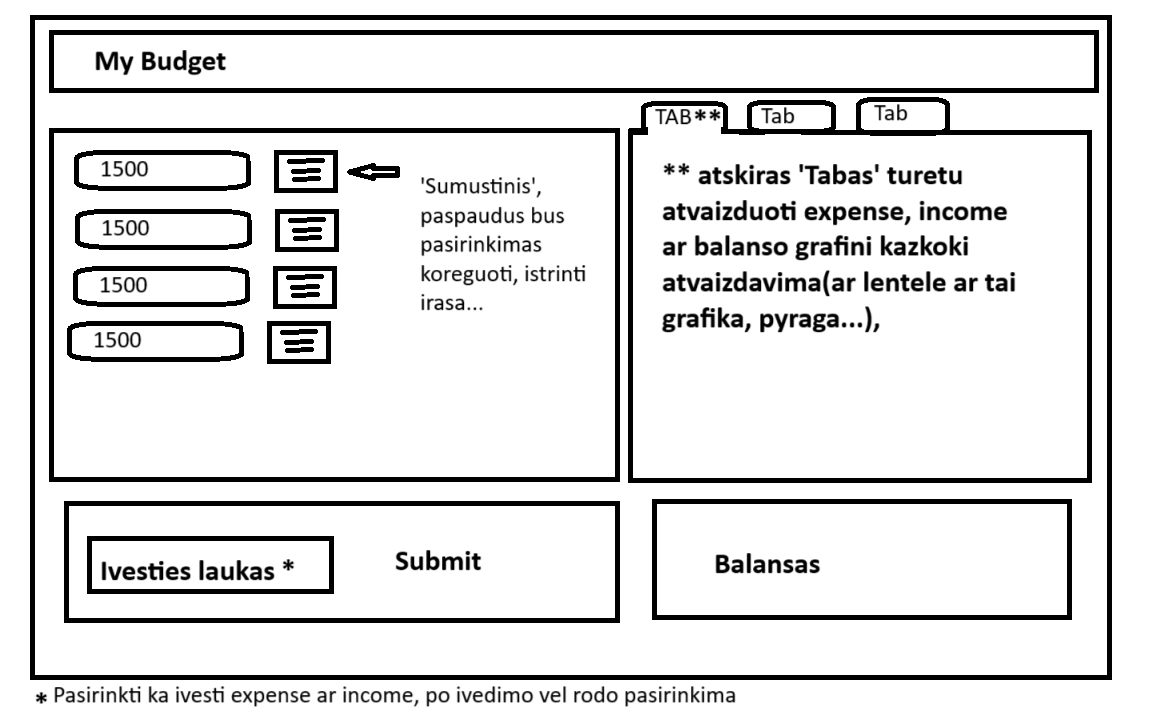
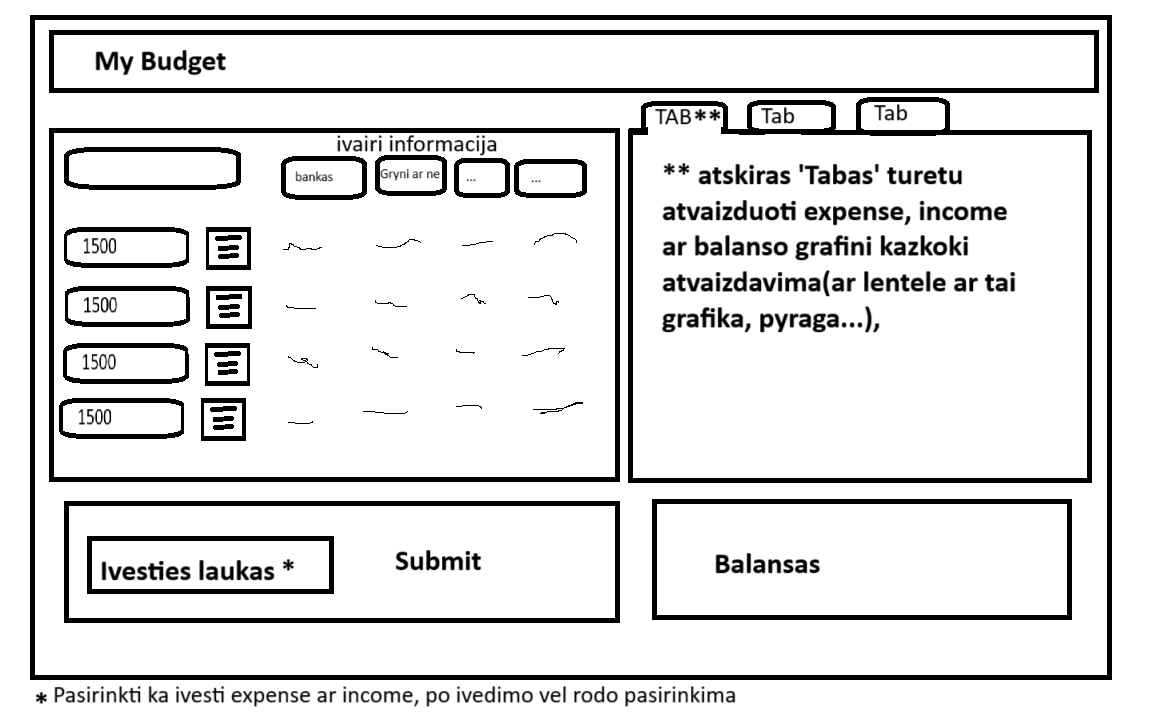
Created basic structure for the project

Changed region(s): [[0.0312, 0.1833, 0.5312, 0.6111]]

diff --git a/src/main/java/budget/mypersonalbudget/budget/Components/BudgetModifier/ShowAllRecords.java b/src/main/java/budget/mypersonalbudget/budget/Components/BudgetModifier/ShowAllRecords.java
@@ -1,0 +1,4 @@
+package budget.mypersonalbudget.budget.Components.BudgetModifier;
+
+public class ShowAllRecords {
+}

diff --git a/src/main/java/budget/mypersonalbudget/budget/Components/BudgetModifier/DeleteRecord.java b/src/main/java/budget/mypersonalbudget/budget/Components/BudgetModifier/DeleteRecord.java
@@ -1,0 +1,4 @@
+package budget.mypersonalbudget.budget.Components.BudgetModifier;
+
+public class DeleteRecord {
+}

diff --git a/src/main/java/budget/mypersonalbudget/budget/Components/BudgetModifier/ModifyRecord.java b/src/main/java/budget/mypersonalbudget/budget/Components/BudgetModifier/ModifyRecord.java
@@ -1,0 +1,4 @@
+package budget.mypersonalbudget.budget.Components.BudgetModifier;
+
+public class ModifyRecord {
+}

diff --git a/src/main/java/budget/mypersonalbudget/budget/Components/Balance/Balance.java b/src/main/java/budget/mypersonalbudget/budget/Components/Balance/Balance.java
@@ -1,0 +1,4 @@
+package budget.mypersonalbudget.budget.Components.Balance;
+
+public class Balance {
+}

diff --git a/src/main/java/budget/mypersonalbudget/budget/Components/Input/Input.java b/src/main/java/budget/mypersonalbudget/budget/Components/Input/Input.java
@@ -1,0 +1,4 @@
+package budget.mypersonalbudget.budget.Components.Input;
+
+public class Input {
+}
